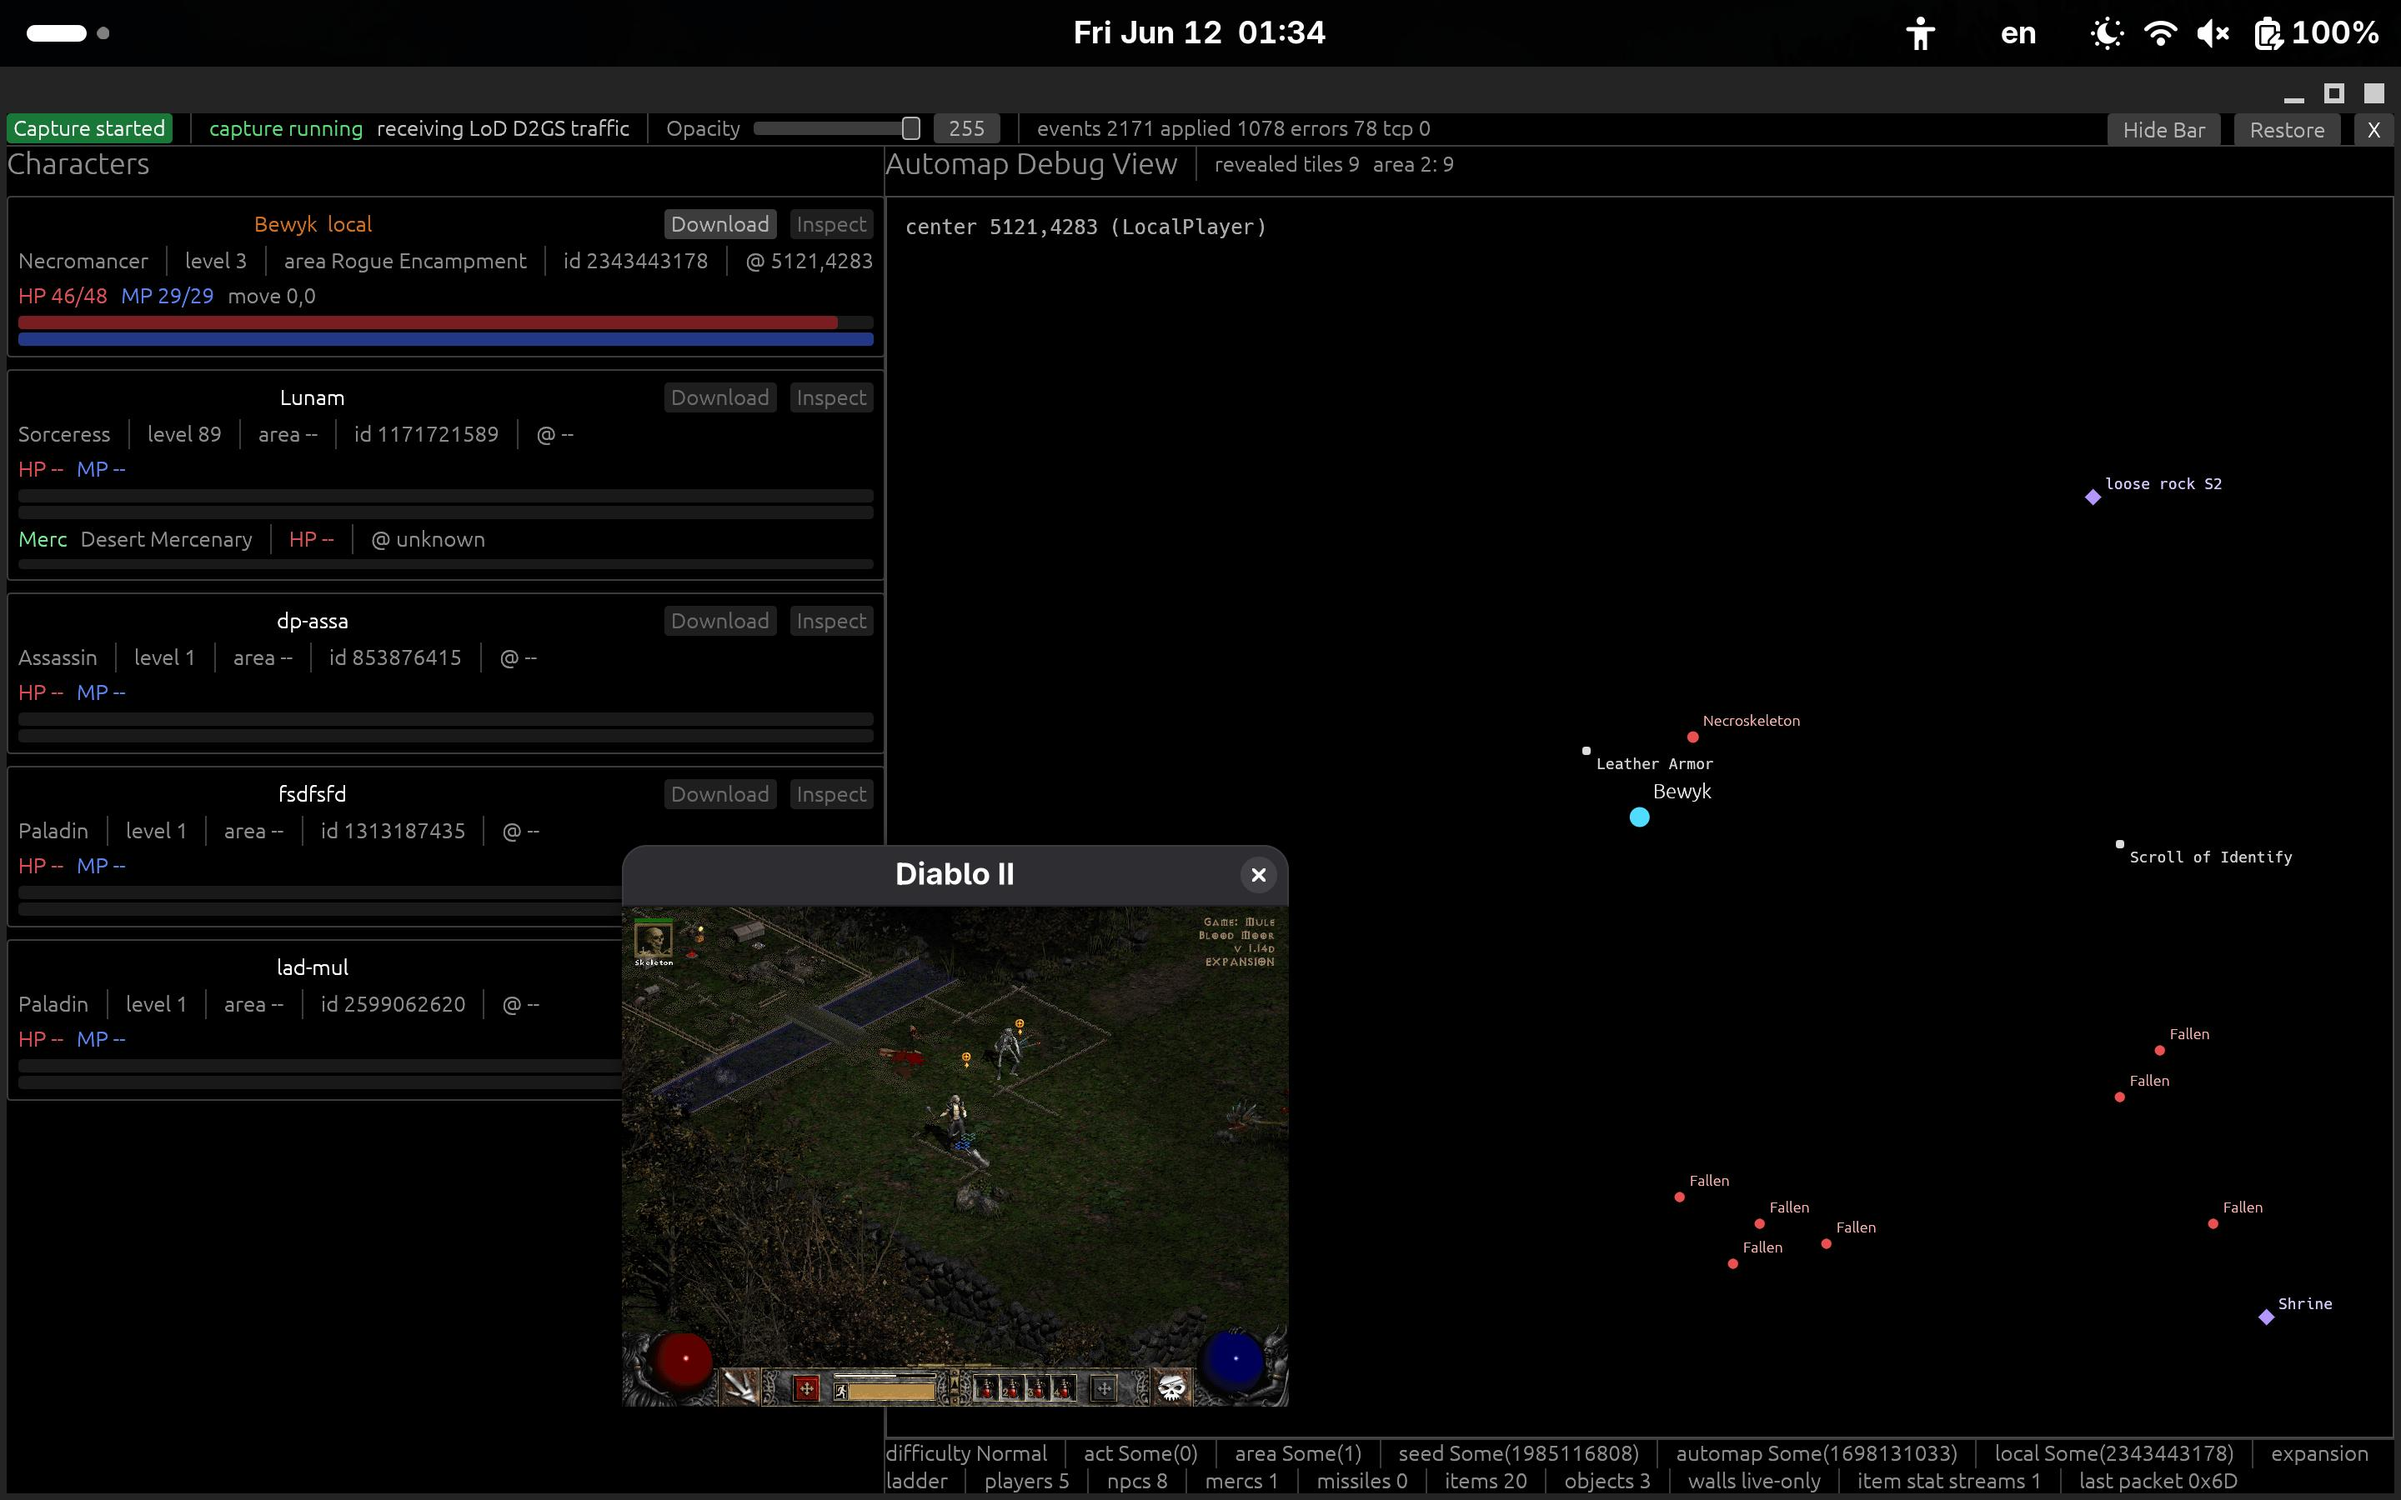
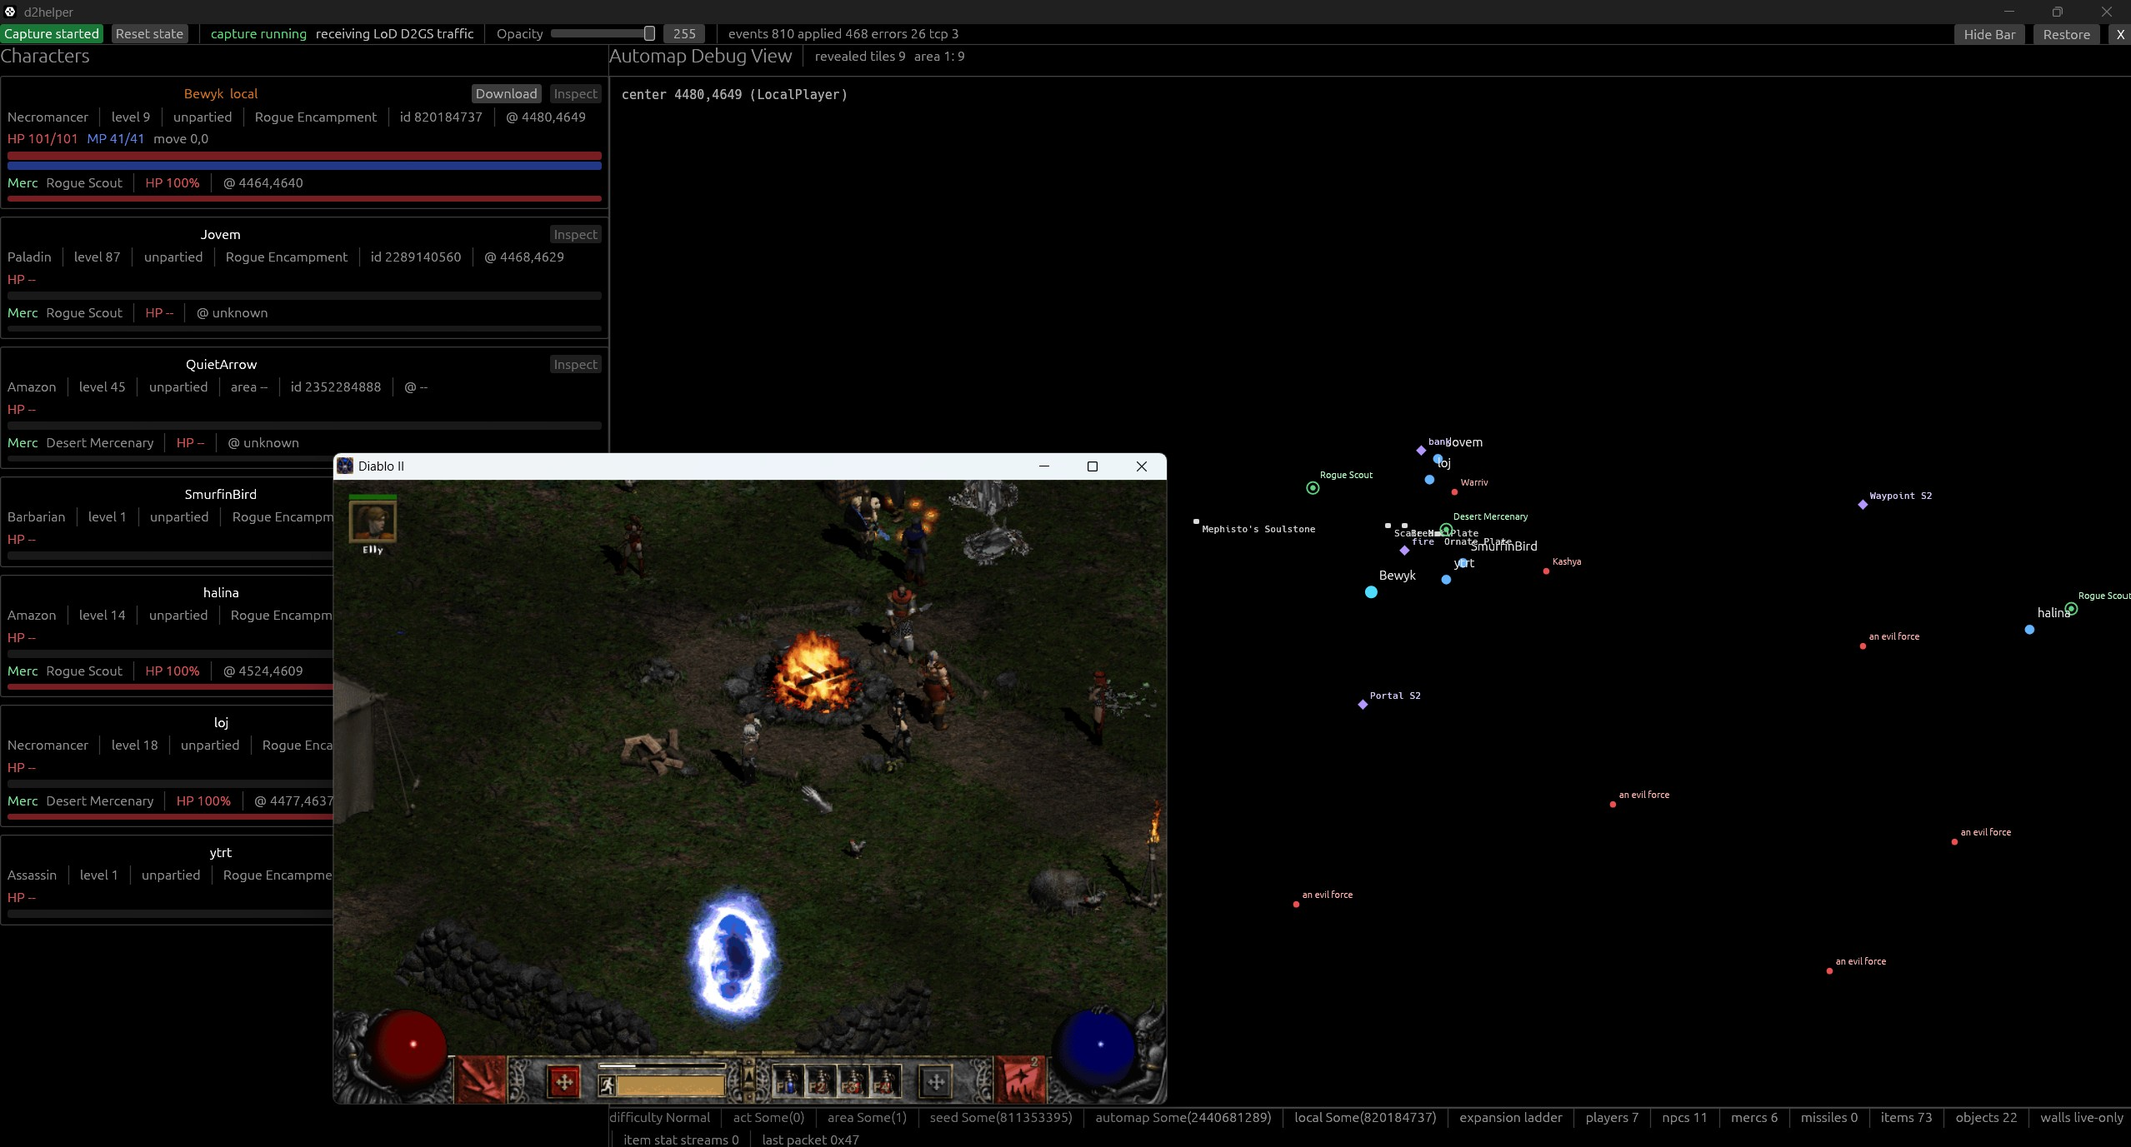
feat: add manual state reset button; switch to mut_events for explicit reset; update screenshot

diff --git a/src/capture.rs b/src/capture.rs
@@ -34,6 +34,7 @@ const SNAPSHOT_PUBLISH_INTERVAL: Duration = Duration::from_millis(50);
 pub struct CaptureHandle {
     started: bool,
     enabled: Arc<AtomicBool>,
+    reset_requested: Arc<AtomicBool>,
 }
 
 impl CaptureHandle {
@@ -42,6 +43,7 @@ impl CaptureHandle {
         Self {
             started: false,
             enabled: Arc::new(AtomicBool::new(true)),
+            reset_requested: Arc::new(AtomicBool::new(false)),
         }
     }
 
@@ -68,6 +70,23 @@ impl CaptureHandle {
         }
     }
 
+    /// Requests a manual state reset from the capture worker and clears the
+    /// current UI snapshot immediately.
+    pub fn request_state_reset(&self, shared: &SharedOverlayState) {
+        self.reset_requested.store(true, Ordering::Relaxed);
+        if let Ok(mut guard) = shared.write() {
+            let mut capture = guard.capture.clone();
+            if capture.running {
+                capture.status = "state reset requested".to_owned();
+            }
+            capture.last_error = None;
+            *guard = OverlaySnapshot {
+                capture,
+                ..OverlaySnapshot::default()
+            };
+        }
+    }
+
     /// Spawns the blocking LoD packet-capture worker.
     pub fn start(&mut self, shared: SharedOverlayState) {
         if self.started {
@@ -85,9 +104,10 @@ impl CaptureHandle {
         );
 
         let enabled = self.enabled.clone();
+        let reset_requested = self.reset_requested.clone();
         thread::Builder::new()
             .name("d2helper-capture".to_owned())
-            .spawn(move || run_capture(shared, enabled))
+            .spawn(move || run_capture(shared, enabled, reset_requested))
             .expect("failed to spawn d2helper capture thread");
     }
 }
@@ -98,7 +118,11 @@ impl Default for CaptureHandle {
     }
 }
 
-fn run_capture(shared: SharedOverlayState, enabled: Arc<AtomicBool>) {
+fn run_capture(
+    shared: SharedOverlayState,
+    enabled: Arc<AtomicBool>,
+    reset_requested: Arc<AtomicBool>,
+) {
     info!("starting LoD D2GS capture worker");
     log_process_capabilities();
     log_capture_interfaces();
@@ -112,10 +136,24 @@ fn run_capture(shared: SharedOverlayState, enabled: Arc<AtomicBool>) {
         let mut generated_maps = GeneratedMapCache::from_env();
         let mut last_snapshot_publish = Instant::now() - SNAPSHOT_PUBLISH_INTERVAL;
 
-        client.start_with_events(|event, game_state| {
+        client.start_with_mut_events(|event, game_state| {
             log_connection_event(&event);
             counters.record(&event);
             let now = Instant::now();
+            if reset_requested.swap(false, Ordering::Relaxed) {
+                game_state.reset();
+                replace_snapshot(
+                    &worker_shared,
+                    OverlaySnapshot {
+                        capture: counters.snapshot(enabled.load(Ordering::Relaxed)),
+                        ..OverlaySnapshot::default()
+                    },
+                );
+                last_snapshot_publish = now;
+                info!("manually reset D2GS game state from d2helper toolbar");
+                return;
+            }
+
             let should_publish = should_publish_snapshot(&event, now, last_snapshot_publish);
             if !should_publish {
                 return;
@@ -159,7 +197,6 @@ fn should_publish_snapshot(
             warning: ConnectionTransportWarning::TcpGapReset { .. }
                 | ConnectionTransportWarning::TcpGapTimeoutReset { .. }
                 | ConnectionTransportWarning::D2gsFramingReset { .. }
-                | ConnectionTransportWarning::D2gsSessionReset { .. }
         }
     )
 }
@@ -262,7 +299,10 @@ fn resource_stat_label(attribute: u8) -> Option<&'static str> {
 fn log_transport_warning(warning: &ConnectionTransportWarning) {
     match warning {
         ConnectionTransportWarning::D2gsSessionReset { reason } => {
-            info!(?reason, "reset D2GS game state after TCP session boundary")
+            info!(
+                ?reason,
+                "reset D2GS parser buffers after TCP session boundary"
+            )
         }
         ConnectionTransportWarning::DuplicateTcpSegment {
             sequence,
@@ -527,3 +567,49 @@ fn log_process_capabilities() {
 
 #[cfg(not(target_os = "linux"))]
 fn log_process_capabilities() {}
+
+#[cfg(test)]
+mod tests {
+    use super::*;
+    use crate::snapshot::{RevealedTileSnapshot, empty_shared_state, read_snapshot};
+
+    #[test]
+    fn d2gs_session_reset_warning_does_not_force_snapshot_publish() {
+        let now = Instant::now();
+
+        assert!(!should_publish_snapshot(
+            &ConnectionEvent::TransportWarning {
+                warning: ConnectionTransportWarning::D2gsSessionReset {
+                    reason: libd2::D2gsSessionResetReason::NewTcpStream,
+                },
+            },
+            now,
+            now,
+        ));
+    }
+
+    #[test]
+    fn request_state_reset_clears_ui_snapshot_and_preserves_counters() {
+        let shared = empty_shared_state();
+        {
+            let mut snapshot = shared.write().expect("snapshot lock");
+            snapshot.capture.running = true;
+            snapshot.capture.status = "receiving LoD D2GS traffic".to_owned();
+            snapshot.capture.total_events = 12;
+            snapshot.capture.last_error = Some("old warning".to_owned());
+            snapshot.game.revealed_tiles.push(RevealedTileSnapshot {
+                x: 1,
+                y: 2,
+                area_id: 3,
+            });
+        }
+
+        CaptureHandle::new().request_state_reset(&shared);
+
+        let snapshot = read_snapshot(&shared);
+        assert_eq!(snapshot.capture.total_events, 12);
+        assert_eq!(snapshot.capture.status, "state reset requested");
+        assert_eq!(snapshot.capture.last_error, None);
+        assert!(snapshot.game.revealed_tiles.is_empty());
+    }
+}

diff --git a/src/app.rs b/src/app.rs
@@ -85,6 +85,11 @@ impl eframe::App for D2HelperApp {
                         self.capture.toggle_enabled(&self.shared);
                     }
 
+                    if ui.button("Reset state").clicked() {
+                        self.capture.request_state_reset(&self.shared);
+                        self.download_status = None;
+                    }
+
                     ui.separator();
                     ui.label(if snapshot.capture.running {
                         RichText::new("capture running").color(Color32::from_rgb(90, 220, 120))
@@ -442,7 +447,7 @@ fn area_label(player: &crate::snapshot::PlayerSnapshot) -> String {
     player
         .area_name
         .as_deref()
-        .map(|name| format!("area {name}"))
+        .map(str::to_owned)
         .unwrap_or_else(|| "area --".to_owned())
 }
 
@@ -776,6 +781,14 @@ mod tests {
         player.party_life = Some(64);
 
         assert_eq!(player_life_bar_values(&player), (Some(64), Some(128)));
+    }
+
+    #[test]
+    fn area_label_uses_plain_area_name() {
+        let mut player = player_snapshot_with_party(1, PartyAffiliation::Unpartied);
+        player.area_name = Some("Rogue Encampment".to_owned());
+
+        assert_eq!(area_label(&player), "Rogue Encampment");
     }
 
     #[test]

diff --git a/src/snapshot.rs b/src/snapshot.rs
@@ -889,7 +889,7 @@ fn parse_error_label(error: &ServerMessageParseError) -> String {
 fn transport_warning_label(warning: &ConnectionTransportWarning) -> String {
     match warning {
         ConnectionTransportWarning::D2gsSessionReset { .. } => {
-            "D2GS session reset; game state cleared".to_owned()
+            "D2GS transport session reset; parser buffers cleared".to_owned()
         }
         ConnectionTransportWarning::DuplicateTcpSegment { .. } => {
             "duplicate TCP segment ignored".to_owned()
@@ -1114,7 +1114,7 @@ mod tests {
         assert_eq!(mercenary.skill_id, 0x0A);
         assert!(mercenary.world_location_known);
         assert_eq!((mercenary.x, mercenary.y), (5200, 5100));
-        assert_eq!(mercenary.life_percent, Some(73));
+        assert_eq!(mercenary.life_percent, Some(57));
         assert_eq!(mercenary.life, Some(1280));
         assert_eq!(mercenary.life_max, Some(2560));
         assert_eq!(mercenary.level, Some(90));
